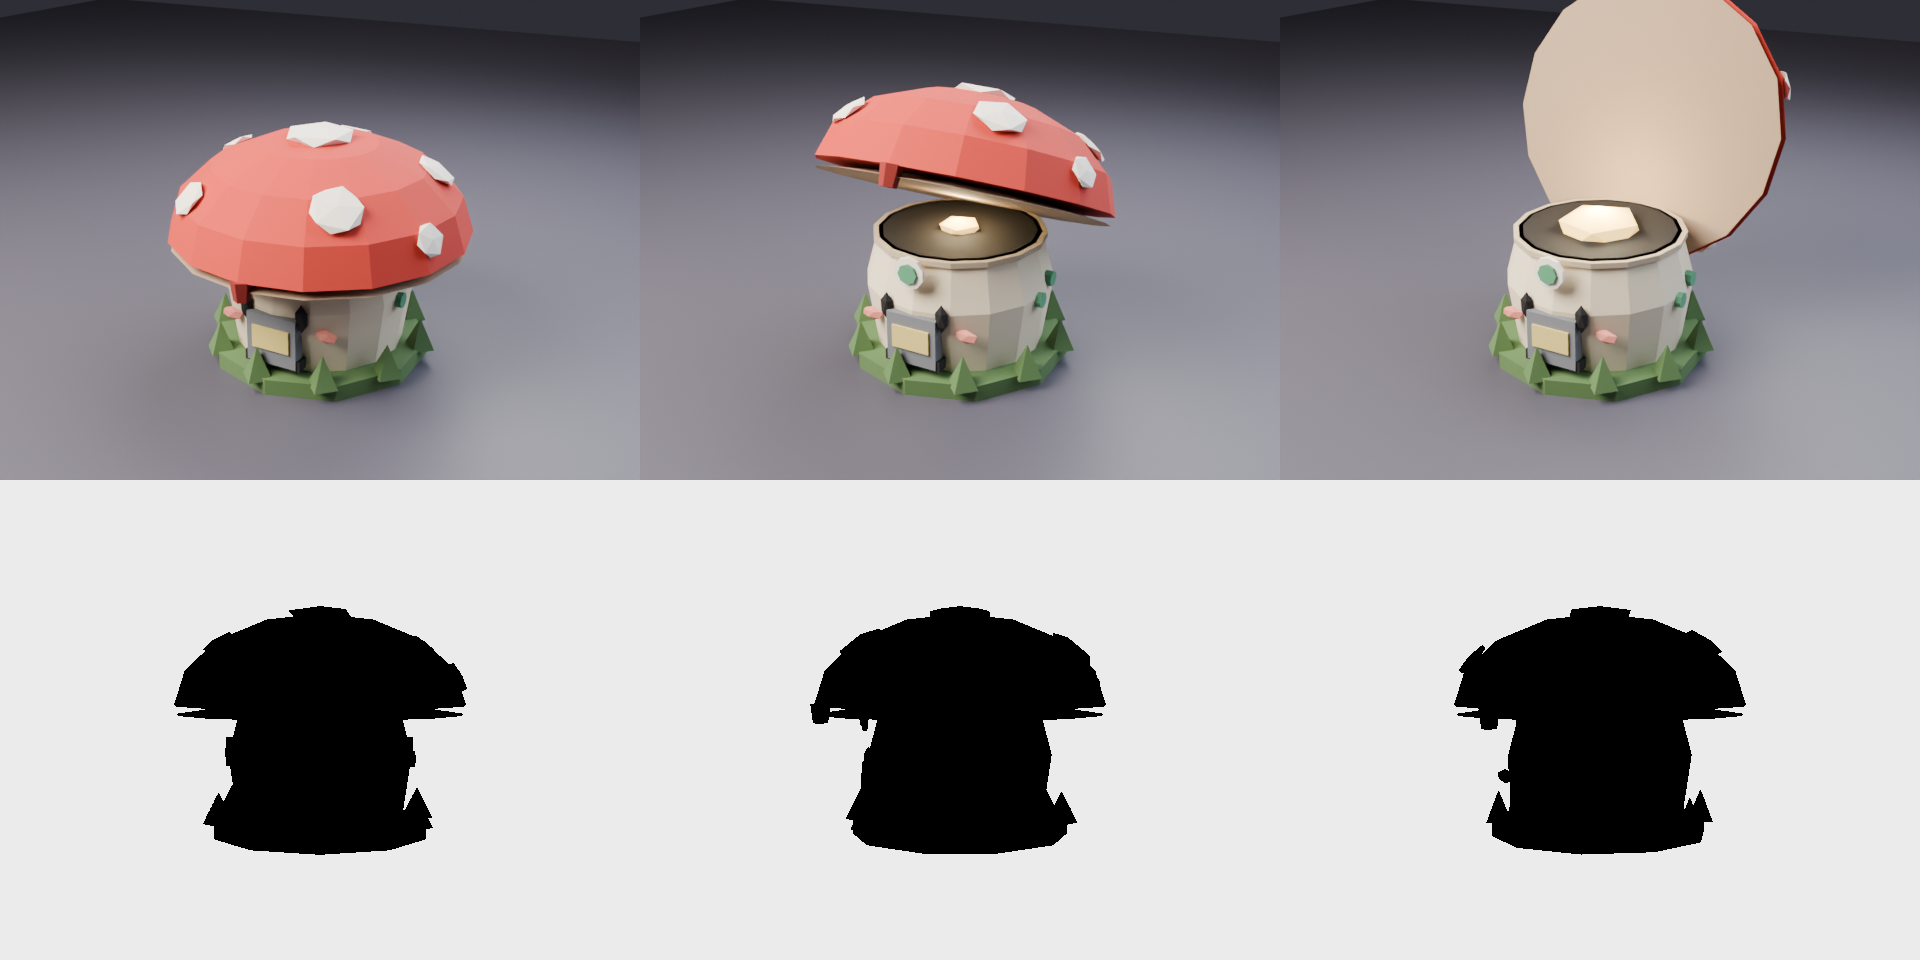
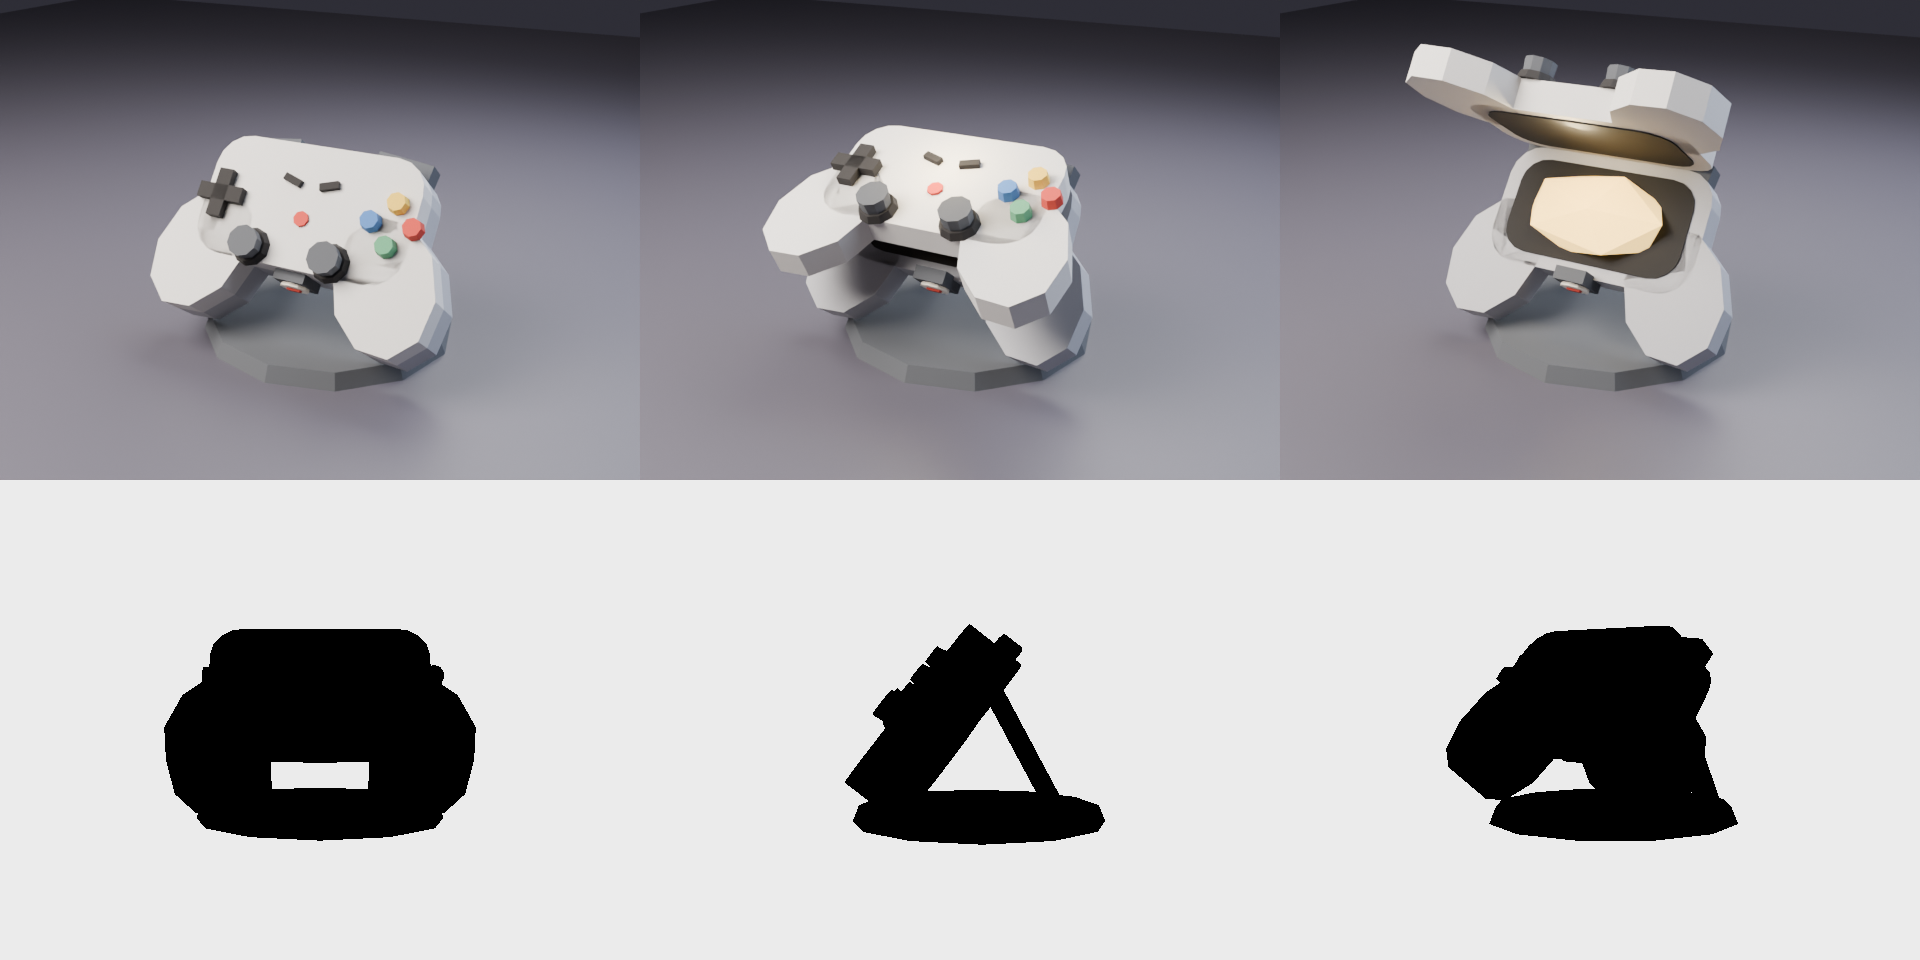
Rương Game: đổi từ nấm sang tay cầm game khổng lồ dựng nghiêng
Claude-Session: https://claude.ai/code/session_01QKQCdYeN4XgfRjbWJoEFi3

diff --git a/Tools/Blender/make_chest_game.py b/Tools/Blender/make_chest_game.py
@@ -1,4 +1,4 @@
-"""Rương Game (bản tạm): rương hình nấm đỏ chấm trắng, mũ nấm là nắp. Dựng hoàn toàn bằng bpy.
+"""Rương Game (bản tạm): tay cầm game khổng lồ dựng nghiêng trên chân đế, nửa vỏ trên là nắp. Dựng hoàn toàn bằng bpy.
 
 Chạy:  python make_chest_game.py -- <thư mục ra>                (xuất Chest_Game.glb)
        python make_chest_game.py -- <thư mục ra> --render <png> [samples]   (thêm ảnh xem trước Cycles)
@@ -18,9 +18,11 @@ R90 = math.radians(90)
 bpy.ops.wm.read_factory_settings(use_empty=True)
 
 PALETTE = {  # sRGB
+    "shell": (0.62, 0.62, 0.64), "shell_lt": (0.78, 0.77, 0.76), "shell_dk": (0.28, 0.29, 0.31),
+    "btn_r": (0.72, 0.22, 0.18), "btn_y": (0.85, 0.70, 0.25), "btn_b": (0.25, 0.42, 0.65),
     "stem": (0.86, 0.80, 0.68), "stem_dk": (0.70, 0.63, 0.52), "cap": (0.72, 0.18, 0.14), "cap_dk": (0.50, 0.12, 0.10),
     "spot": (0.93, 0.90, 0.84), "gill": (0.62, 0.52, 0.42), "eye": (0.08, 0.07, 0.07), "cheek": (0.85, 0.50, 0.45),
-    "cart": (0.42, 0.43, 0.45), "cart_lbl": (0.82, 0.74, 0.42), "slot": (0.12, 0.11, 0.11), "btn": (0.30, 0.55, 0.40),
+    "cart": (0.42, 0.43, 0.45), "cart_lbl": (0.82, 0.74, 0.42), "slot": (0.12, 0.11, 0.11), "btn_g": (0.30, 0.55, 0.40),
     "grass": (0.30, 0.42, 0.24), "interior": (0.07, 0.055, 0.045), "glow": (1.0, 0.82, 0.45),
 }
 _mats = {}
@@ -86,58 +88,84 @@ def dome(radius, zscale, loc, material, seg=16, rings=8):
 
 
 # ------------------------------------------------------------------ build
-H = 0.20                    # height of the stem rim (the mouth)
-CAP_R, CAP_Z = 0.23, 0.62   # cap radius and vertical squash
+# The controller is modelled lying flat (face up, grips towards -Y, seam at z = SEAM, hinge on the back edge),
+# then every layer is tilted by TILT about X (back edge up) and lifted onto a kickstand.
+import bmesh
+from mathutils import Matrix
+SEAM, TOP, TILT = 0.05, 0.095, math.radians(52)
 parts = {"Body": [], "Lid": [], "Seal": [], "Binding": [], "Glow": []}
 add = lambda layer, o: parts[layer].append(o)
 
-# Body: a slightly bulging stem on a grassy tuft
-add("Body", cone(0.17, 0.17, 0.025, (0, 0, 0.0125), "grass", verts=10))
-for i in range(10):                                                   # tufts of grass
-    a = i * math.tau / 10 + 0.2
-    add("Body", cone(0.025, 0.0, 0.05, (math.cos(a) * 0.16, math.sin(a) * 0.16, 0.045), "grass", verts=4))
-add("Body", cone(0.13, 0.145, 0.10, (0, 0, 0.075), "stem", verts=16))
-add("Body", cone(0.145, 0.125, 0.075, (0, 0, 0.1625), "stem", verts=16))
-add("Body", cone(0.133, 0.133, 0.008, (0, 0, H - 0.004), "stem_dk", verts=16))   # rim
-add("Body", cone(0.118, 0.118, 0.004, (0, 0, H - 0.001), "interior", verts=16))  # dark mouth
-# face on the front (-Y)
-for sx in (-1, 1):
-    add("Body", ico(0.016, (sx * 0.045, -0.140, 0.120), "eye", scale=(0.7, 0.5, 1.4)))
-    add("Body", ico(0.016, (sx * 0.078, -0.128, 0.095), "cheek", scale=(1.2, 0.4, 0.7)))
-add("Body", box((0.03, 0.01, 0.006), (0, -0.142, 0.088), "eye"))     # small smile
-# cartridge slot on the front, below the face
-add("Body", box((0.09, 0.02, 0.016), (0, -0.138, 0.045), "slot"))
-# D-pad and buttons on the side (left) and right
-add("Body", box((0.012, 0.045, 0.014), (-0.142, 0, 0.13), "slot"))
-add("Body", box((0.012, 0.014, 0.045), (-0.142, 0, 0.13), "slot"))
-for dy, dz in ((-0.018, 0.12), (0.018, 0.14)):
-    add("Body", cone(0.012, 0.012, 0.012, (0.142, dy, dz), "btn", verts=8, rot=(0, R90, 0)))
 
-# Lid: the cap with spots and gills underneath
-add("Lid", dome(CAP_R, CAP_Z, (0, 0, H + 0.004), "cap"))
-add("Lid", cone(CAP_R - 0.004, 0.13, 0.014, (0, 0, H + 0.004 - 0.007), "gill", verts=16))
-spots = [(0.0, 0.0, 0.055), (35, 50, 0.04), (110, 48, 0.034), (190, 52, 0.045), (260, 46, 0.03), (320, 60, 0.032),
-         (70, 72, 0.026), (150, 75, 0.024), (235, 74, 0.028)]
-for az, pol, r in spots:  # azimuth (deg, 0 = +X), polar angle from top (deg)
-    a, p = math.radians(az - 90), math.radians(pol)    # -90 so the first ring spot sits towards the front
-    n = Vector((math.sin(p) * math.cos(a), math.sin(p) * math.sin(a), math.cos(p) / CAP_Z)).normalized()
-    pos = Vector((math.sin(p) * math.cos(a) * CAP_R, math.sin(p) * math.sin(a) * CAP_R, H + 0.004 + math.cos(p) * CAP_R * CAP_Z))
-    rot = n.to_track_quat("Z", "Y").to_euler()
-    add("Lid", ico(r, pos, "spot", scale=(1, 1, 0.22), rot=rot))
-add("Lid", cone(0.012, 0.016, 0.03, (0, -CAP_R + 0.01, H - 0.01), "cap_dk", verts=6))   # catch tab at the front
-hinge = (0, 0.133, H)
-for sx in (-1, 1):
-    add("Body", box((0.03, 0.02, 0.02), (sx * 0.035, 0.138, H - 0.008), "cap_dk"))     # hinge knuckles
+def outline():
+    """Top view of the pad: rounded centre plate (+ two grips added separately)."""
+    pts, w, d, r = [], 0.17, 0.095, 0.05
+    for cx, cy, a0 in ((w - r, d - r, 0), (-w + r, d - r, 90), (-w + r, -d + r, 180), (w - r, -d + r, 270)):
+        for i in range(5):
+            a = math.radians(a0 + i * 22.5)
+            pts.append((cx + r * math.cos(a), cy + r * math.sin(a)))
+    return pts
 
-# Binding: a game cartridge plugged in the slot (pops out when unsealing)
-add("Binding", box((0.08, 0.02, 0.07), (0, -0.140, 0.075), "cart"))
-add("Binding", box((0.06, 0.004, 0.035), (0, -0.151, 0.082), "cart_lbl"))
-add("Binding", box((0.08, 0.02, 0.008), (0, -0.140, 0.114), "cart"))
-# Seal: round sticker with a green "A" button bridging cap tab and stem
-add("Seal", cone(0.024, 0.024, 0.006, (0, -0.150, H - 0.014), "spot", verts=10, rot=(R90, 0, 0)))
-add("Seal", cone(0.015, 0.015, 0.006, (0, -0.154, H - 0.014), "btn", verts=8, rot=(R90, 0, 0)))
-# Glow
-add("Glow", ico(0.07, (0, 0, H), "glow", scale=(1, 1, 0.5)))
+
+def prism(pts, z0, z1, material):
+    me = bpy.data.meshes.new("p"); bm = bmesh.new()
+    f = bm.faces.new([bm.verts.new((x, y, z0)) for x, y in pts])
+    bmesh.ops.reverse_faces(bm, faces=[f])
+    ext = bmesh.ops.extrude_face_region(bm, geom=[f])
+    bmesh.ops.translate(bm, vec=(0, 0, z1 - z0), verts=[v for v in ext["geom"] if isinstance(v, bmesh.types.BMVert)])
+    bm.to_mesh(me); bm.free()
+    o = bpy.data.objects.new("p", me); bpy.context.scene.collection.objects.link(o)
+    return finish(o, material)
+
+
+def shell(z0, z1, material, inset_z):
+    out = [prism(outline(), z0, z1, material)]
+    for sx in (-1, 1):  # grips: squashed 10-sided cylinders angled outwards
+        out.append(cone(0.075, 0.075, z1 - z0, (sx * 0.15, -0.09, (z0 + z1) / 2), material, verts=10))
+        o = out[-1]; o.data.transform(Matrix.Translation((sx * 0.15, -0.09, 0)) @ Matrix.Rotation(sx * 0.35, 4, "Z")
+                                      @ Matrix.Scale(1.35, 4, (0, 1, 0)) @ Matrix.Translation((-sx * 0.15, 0.09, 0)))
+    out.append(prism([(x * 0.86, y * 0.8) for x, y in outline()], inset_z - 0.002, inset_z + 0.002, "interior"))
+    return out
+
+
+for o in shell(0.0, SEAM, "shell", SEAM): add("Body", o)
+for o in shell(SEAM, TOP, "shell_lt", SEAM): add("Lid", o)
+# face of the lid: D-pad, four face buttons, start/select, two sticks
+add("Lid", box((0.075, 0.024, 0.014), (-0.14, -0.005, TOP + 0.007), "slot"))
+add("Lid", box((0.024, 0.075, 0.014), (-0.14, -0.005, TOP + 0.007), "slot"))
+for (dx, dy), m in zip(((0, 0.032), (0.032, 0), (0, -0.032), (-0.032, 0)), ("btn_y", "btn_r", "btn_g", "btn_b")):
+    add("Lid", cone(0.016, 0.014, 0.016, (0.14 + dx, -0.005 + dy, TOP + 0.008), m, verts=8))
+for sx in (-1, 1):
+    add("Lid", box((0.03, 0.011, 0.008), (sx * 0.03, 0.035, TOP + 0.004), "slot", rot=(0, 0, sx * 0.3)))
+    add("Lid", cone(0.03, 0.026, 0.012, (sx * 0.065, -0.075, TOP + 0.006), "slot", verts=10))
+    add("Lid", cone(0.022, 0.024, 0.022, (sx * 0.065, -0.075, TOP + 0.022), "shell_dk", verts=10))
+add("Lid", cone(0.012, 0.012, 0.004, (0, -0.02, TOP + 0.002), "btn_r", verts=8))         # home light
+# body: shoulder bumpers, cable port, hinge knuckles at the back edge
+for sx in (-1, 1):
+    add("Body", box((0.09, 0.03, 0.035), (sx * 0.11, 0.098, SEAM - 0.02), "shell_dk", rot=(0, 0, -sx * 0.12)))
+add("Body", box((0.05, 0.02, 0.02), (0, 0.1, SEAM - 0.015), "slot"))
+hinge = Vector((0, 0.095, SEAM))
+# Binding: a clasp across the front seam; Seal: round sticker on it
+add("Binding", box((0.05, 0.02, 0.06), (0, -0.1, SEAM), "shell_dk"))
+add("Seal", cone(0.022, 0.022, 0.006, (0, -0.112, SEAM), "spot", verts=10, rot=(R90, 0, 0)))
+add("Seal", box((0.022, 0.004, 0.008), (0, -0.116, SEAM), "btn_r"))
+add("Glow", ico(0.08, (0, 0, SEAM + 0.01), "glow", scale=(1.6, 0.9, 0.35)))
+
+# tilt everything, then sit it on the floor with a kickstand under the raised back
+M = Matrix.Rotation(TILT, 4, "X")
+for objs in parts.values():
+    for o in objs: o.data.transform(M)
+lift = -min((v.co.z for objs in parts.values() for o in objs for v in o.data.vertices)) + 0.025
+T = Matrix.Translation((0, 0.03, lift))
+for objs in parts.values():
+    for o in objs: o.data.transform(T)
+hinge = T @ M @ hinge
+add("Body", cone(0.2, 0.19, 0.025, (0, 0.03, 0.0125), "shell_dk", verts=12))               # round base
+for sx in (-1, 1):                                                                         # kickstand struts
+    top = T @ M @ Vector((sx * 0.1, 0.04, 0.005))
+    bot = Vector((sx * 0.1, 0.03 + 0.12, 0.02))
+    mid, v = (top + bot) / 2, top - bot
+    add("Body", box((0.03, 0.025, v.length), mid, "shell_dk", rot=v.to_track_quat("Z", "Y").to_euler()))
 
 
 def join(objs):
@@ -202,7 +230,7 @@ if RENDER:
         o.rotation_euler = (Vector((0, 0, 0.2)) - Vector(loc)).to_track_quat("-Z", "Y").to_euler()
     light((-0.8, -1.0, 1.4), 140, 1.2, (1, .93, .85)); light((1.0, 0.6, 1.0), 40, 1.5, (.7, .8, 1)); light((0, 0.9, 1.2), 30, 1.0)
     pt = bpy.data.lights.new("in", "POINT"); pt.color = (1, .8, .45); pt.shadow_soft_size = 0.03
-    po = bpy.data.objects.new("in", pt); sc.collection.objects.link(po); po.location = (0, 0, H + 0.04)
+    po = bpy.data.objects.new("in", pt); sc.collection.objects.link(po); po.location = hinge + Vector((0, -0.12, 0.08))
     cam = bpy.data.objects.new("cam", bpy.data.cameras.new("cam")); sc.collection.objects.link(cam); sc.camera = cam
     cam.data.lens = 50
     glow, lid, gs0 = L["Glow"], L["Lid"], tuple(L["Glow"].scale)
@@ -213,7 +241,7 @@ if RENDER:
         lid.rotation_euler = (math.radians(-lid_deg), 0, 0)   # negative X turns the front of the cap up and back
         glow.scale = tuple(s * max(1e-4, glw) for s in gs0); glow.hide_render = glw < 0.01
         pt.energy = 4 * glw
-        a = math.radians(az); tgt = Vector((0, 0, 0.18))
+        a = math.radians(az); tgt = Vector((0, 0, 0.16))
         cam.location = tgt + Vector((math.sin(a) * dist, -math.cos(a) * dist, elev * dist))
         cam.rotation_euler = (tgt - cam.location).to_track_quat("-Z", "Y").to_euler()
         floor.hide_render = silhouette; sc.render.film_transparent = silhouette
@@ -226,7 +254,7 @@ if RENDER:
 
     shot("closed", 0, 0, 28)
     shot("ajar", 25, 0.5, 28)
-    shot("open", 100, 1.0, 28)
+    shot("open", 85, 1.0, 28)
     for i, az in enumerate((0, 90, 45)):
         shot(f"sil{i}", 0, 0, az, elev=0.05, dist=1.4, silhouette=True)
     sheet = Image.new("RGB", (640 * 3, 480 * 2))

diff --git a/Docs/Art/BanGiao3D.md b/Docs/Art/BanGiao3D.md
@@ -193,9 +193,9 @@ Tham số: độ cao đường nối nắp theo đơn vị nguồn (0,03, nằm 
 
 ## Rương Game (dựng bằng Blender, tạm)
 
-`Assets/_Project/Art/Chests/Chest_Game.glb`. Đây là bản thử tạm, **chưa gán ID hay chủ đề vào dữ liệu game**. Ý tưởng: [ruong-game](../../docs/superpowers/specs/2026-11-24-ruong-game-design.md). Rương hình **cây nấm đỏ chấm trắng** (nhại nấm trong game), cả mũ nấm là nắp. Thân màu kem có mặt cười, khe cắm băng game, nút D-pad và hai nút bấm, đứng trên một khóm cỏ.
+`Assets/_Project/Art/Chests/Chest_Game.glb`. Đây là bản thử tạm, **chưa gán ID hay chủ đề vào dữ liệu game**. Ý tưởng: [ruong-game](../../docs/superpowers/specs/2026-11-24-ruong-game-design.md). Rương là **tay cầm game khổng lồ** dựng nghiêng 52° trên chân đế tròn, nửa vỏ trên (mặt có D-pad, 4 nút màu, 2 cần analog) là nắp, lật ra sau. Bản nấm trước đó bị bỏ vì không đủ chất game.
 
 - Chạy lại: `python Tools/Blender/make_chest_game.py -- Assets/_Project/Art/Chests [--render Assets/_Project/Art/Source/render_chest_game_open.png 32]` (cần `pip install bpy pillow`).
-- Lớp: root `Chest_Game` gồm `Body` (544 tam giác), `Lid` (386, mũ nấm, **gốc ở bản lề phía sau** (0; 0,133; 0,20), xoay quanh X), `Binding` (36, băng game cắm ở khe trước), `Seal` (64, nhãn tròn nút A xanh), `Glow` (20, quầng vàng ở miệng). Tổng **1.030 tam giác** (không tính Glow). Cao 0,36 m.
-- Vật liệu đơn sắc, không texture. Mặt trước là -Y.
-- Ảnh `Art/Source/render_chest_game_open.png` dựng bằng Cycles ngoại tuyến: hàng trên là đóng, hé, mở toang; hàng dưới là hình bóng chính diện, cạnh bên, chéo 45°. **Chưa chạy trong Unity**: chưa có prefab, chưa kiểm tra chiều mở (đổi `lidOpenSign` nếu ngược).
+- Lớp: root `Chest_Game` gồm `Body` (328 tam giác, nửa vỏ dưới, nút vai, chân đế), `Lid` (556, nửa vỏ trên, **gốc ở bản lề mép sau**, xoay quanh X), `Binding` (12, khóa gài ở mép trước), `Seal` (48, nhãn tròn chấm đỏ), `Glow` (20). Tổng **944 tam giác** (không tính Glow). Cao 0,30 m.
+- Vật liệu đơn sắc, xám trung tính, nút màu làm điểm nhấn. Mặt trước là -Y.
+- Ảnh `Art/Source/render_chest_game_open.png` dựng bằng Cycles ngoại tuyến: hàng trên là đóng, hé, mở; hàng dưới là hình bóng chính diện, cạnh bên, chéo 45°. **Chưa chạy trong Unity**: chưa có prefab, chưa kiểm tra chiều mở (đổi `lidOpenSign` nếu ngược). Nắp đã nghiêng sẵn 52° nên góc mở chỉ nên khoảng 80–90°.

diff --git a/docs/superpowers/specs/2026-11-24-ruong-game-design.md b/docs/superpowers/specs/2026-11-24-ruong-game-design.md
@@ -8,8 +8,10 @@ Gộp chủ đề Mô hình (xem [ruong-chu-de](2026-11-24-ruong-chu-de-design.m
 2. **Ống cống xanh có nắp**: dễ nhận ra, nhưng là hình trụ, trùng hình bóng với thùng/xô của Rác Quý và thùng rum của Hải tặc.
 3. **Đầu nấm đỏ chấm trắng (chọn)**: thân nấm màu kem phình nhẹ, mũ nấm tròn to hơn thân; nắp chính là cả cái mũ nấm.
 
-## Chọn: Rương Nấm
+## Chọn: Tay cầm game khổng lồ (phương án 1, dựng nghiêng)
 
-- Hình bóng "chữ T tròn" (mũ rộng trùm thân hẹp) không giống hộp, thùng, trống, vỏ sò hay thân tàu nào đang làm.
-- Nhại nấm trong game (đổi nhỏ: chấm trắng không đều, mặt nấm có má hồng và miệng cười). Chất "game" thêm bằng **khe cắm băng game** ở mặt trước thân (một băng game cắm sẵn làm `Binding`, rơi ra lúc gỡ niêm) và **nhãn tròn hình nút A** làm `Seal`.
-- **Cách mở:** cả mũ nấm là `Lid`, bản lề ở mép sau miệng thân, lật ra sau quanh trục X. Miệng thân tròn tối có `Glow` vàng.
+Bản đầu chọn nấm nhưng chủ dự án thấy không đủ chất game, nên đổi sang tay cầm.
+
+- Không để nằm bẹt mà dựng nghiêng 52° trên chân đế tròn: nhìn chính diện ra ngay hình tay cầm (hai tay nắm phình), nhìn cạnh bên ra hình tam giác (vỏ và thanh chống). Không giống hộp, thùng, trống hay vỏ sò.
+- Mặt tay cầm: D-pad, 4 nút màu (đỏ, vàng, xanh lá, xanh dương), 2 cần analog, đèn home. Không logo.
+- **Cách mở:** nửa vỏ trên là `Lid`, bản lề ở mép sau (chỗ nút vai), lật ra sau quanh trục X như mở hộp đựng. Bên trong lót tối, `Glow` nằm giữa nửa vỏ dưới. `Binding` là khóa gài ở mép trước, `Seal` là nhãn tròn dán trên khóa.
